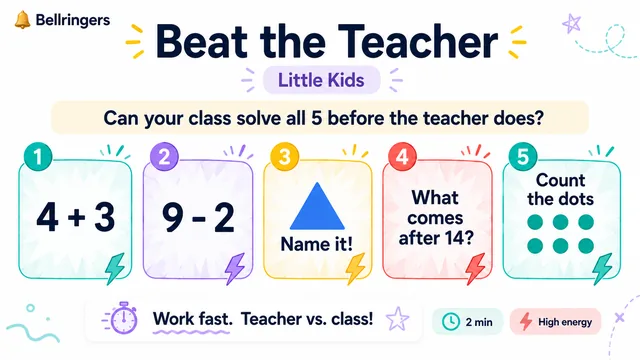
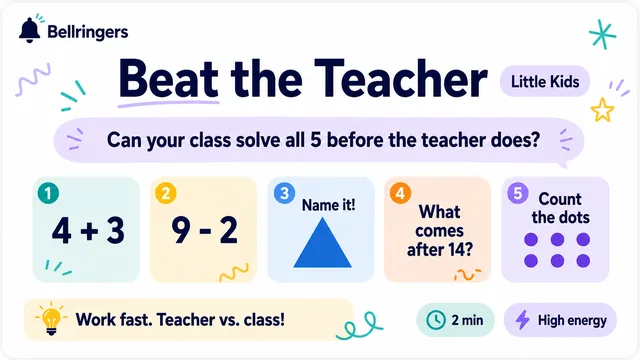
Bellringers: landscape card art — three new formats, five redone
Kennady's redo, 16:9 at 1672x941 in the newer bolder style. 9.9MB -> 180KB
as 640px WebP.

New coverage: One Has to Go, Defend the Ridiculous, Caption This (which
uses a real photograph rather than emoji). Replaced in the new style:
Wrong Answers Only + Science, Beat the Teacher Math + Words + Little Kids.

16 of 24 decks now carry art; the remaining 8 keep their live miniature.
Five of the eight files replace existing paths, so only the three new
formats needed a decks.js line.

Staged deliberately narrowly — the hub has unrelated edits in flight.

diff --git a/bellringers/js/decks.js b/bellringers/js/decks.js
@@ -193,6 +193,7 @@ const DECKS = [
   subtitle: "Four things appear. The class eliminates one — forever, for everyone.",
   minutes: 5, grades: ["35","68"], subjects: ["sel"], energy: "high", group: "whole",
   situations: ["talking","need-energy","finished-early"],
+  art: "img/one-has-to-go.webp",
   prompts: [
     { stem: "One has to go. Forever.", items: [ {label:"Pizza",icon:"🍕"}, {label:"Tacos",icon:"🌮"}, {label:"Burgers",icon:"🍔"}, {label:"Ice cream",icon:"🍦"} ] },
     { stem: "One has to go. Forever.", items: [ {label:"Summer",icon:"☀"}, {label:"Fall",icon:"🍂"}, {label:"Winter",icon:"❄"}, {label:"Spring",icon:"🌷"} ] },
@@ -215,6 +216,7 @@ const DECKS = [
   subtitle: "An indefensible claim. Sixty seconds to make us believe it anyway.",
   minutes: 10, grades: ["35","68"], subjects: ["ela"], energy: "high", group: "pairs",
   situations: ["talking","need-energy","thinking"],
+  art: "img/defend-the-ridiculous.webp",
   featured: true,
   prompts: [
     { stem: "Convince us:", big: "Homework should only be assigned at midnight." },
@@ -364,6 +366,7 @@ const DECKS = [
   subtitle: "Write the best caption for the scene. Share and vote.",
   minutes: 5, grades: ["k2","35","68"], subjects: ["ela"], energy: "medium", group: "solo",
   situations: ["finished-early","talking","switching","need-energy"],
+  art: "img/caption-this.webp",
   featured: true,
   prompts: [
     { stem: "Caption this.", scene: "🐕🕶🛹", sub: "A dog in sunglasses on a skateboard." },
